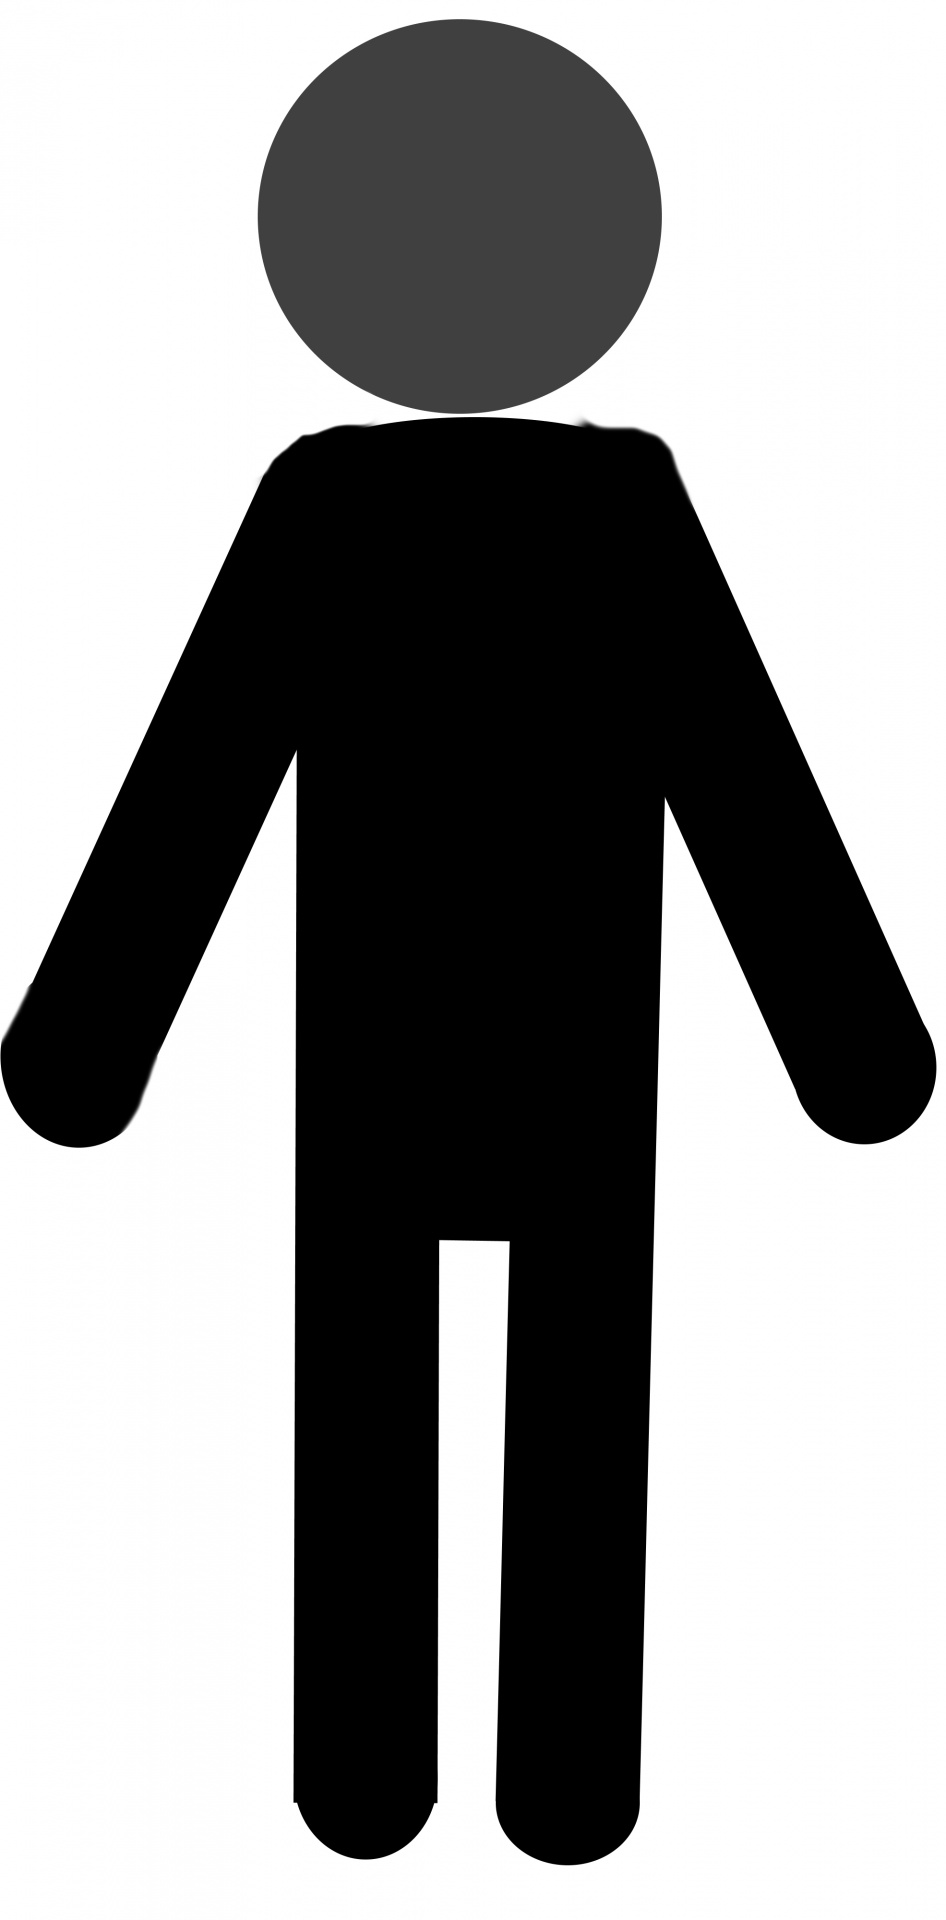
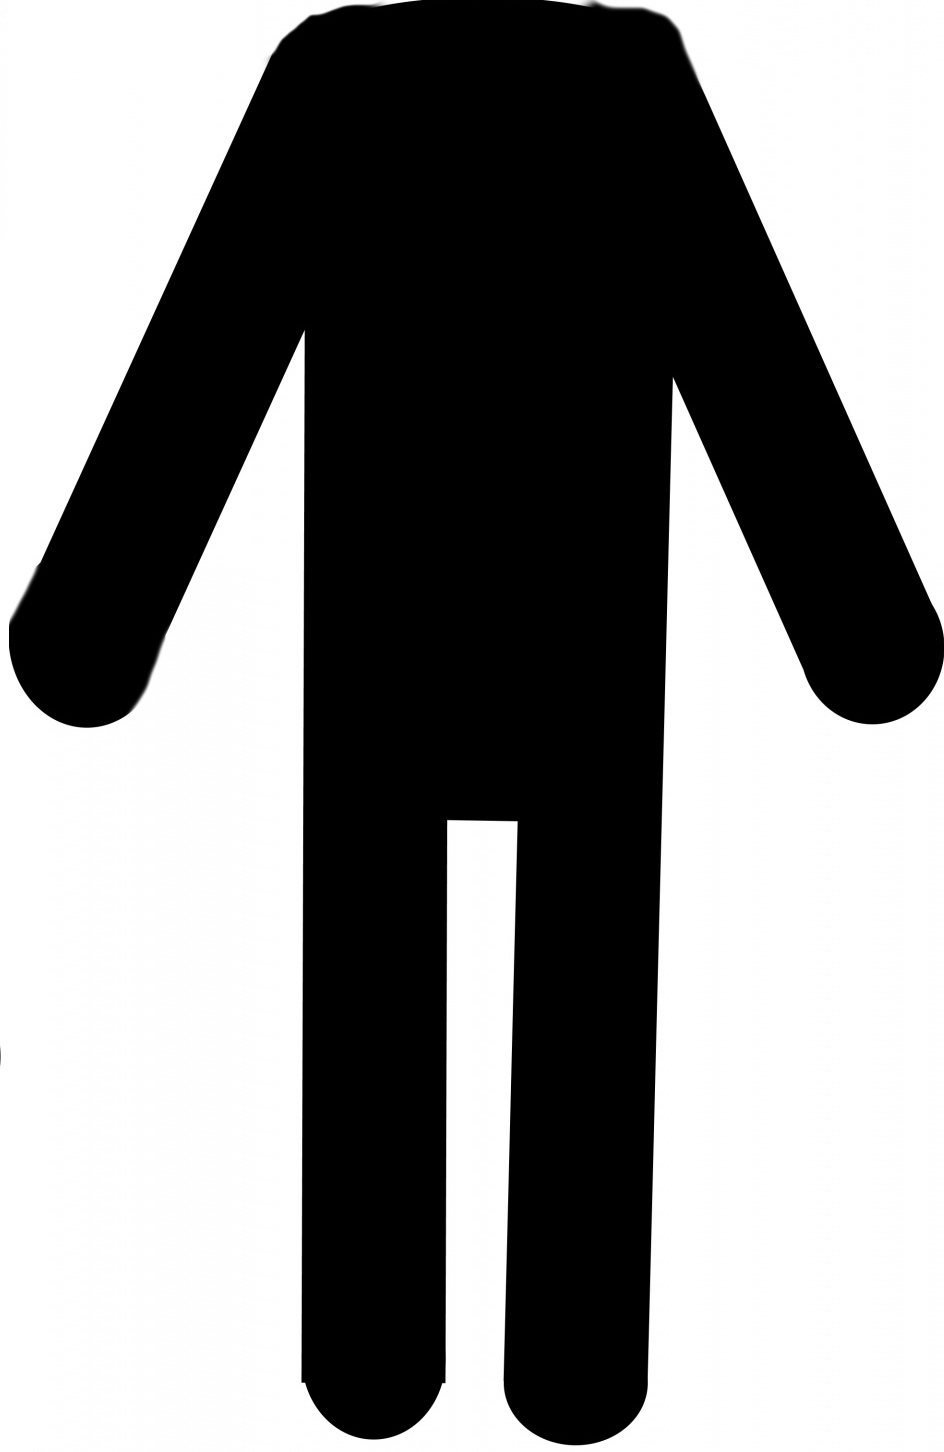
head red on hover with css

Changed region(s): [[0.0, 0.0, 1.0, 1.0]]

diff --git a/vuurwerkschade/vuurwerkschade.js b/vuurwerkschade/vuurwerkschade.js
@@ -201,13 +201,28 @@ function afterLoad() {
     //   border: '1px solid #ccc'
     // });
 
-    d3.select("#svgImagePoppetje1")
-    .append("svg:image")
-    .attr("xlink:href", "images/poppetje1.png")
-    .attr("width", 150)
-    .attr("height", 300)
-    .attr("x", 0)
-    .attr("y", 0);
+    // 
+    // var widthImagePoppetje1 = d3.select("#svgImagePoppetje1").attr("width");
+    // var heightImagePoppetje1 = d3.select("#svgImagePoppetje1").attr("height");
+    //
+    // d3.select("#svgImagePoppetje1")
+    // .append("svg:image")
+    // .attr("xlink:href", "images/poppetje1.png")
+    // .attr("width", widthImagePoppetje1)
+    // .attr("height", heightImagePoppetje1)
+    // .attr("x", 0)
+    // .attr("y", 10);
+    //
+    // d3.select("#svgImagePoppetje1")
+    // .append("svg:image")
+    // .attr("xlink:href", "images/head.png")
+    // .attr("width", widthImagePoppetje1/2)
+    // .attr("height", heightImagePoppetje1/2)
+    // .attr("x", 40)
+    // .attr("y", -35)
+    // .on("mouseover", function(d){
+    //   this.style("opacity", 0.1);
+    // });
 
 
     //--------------------------------------------------------------------------

diff --git a/vuurwerkschade/index.html b/vuurwerkschade/index.html
@@ -29,7 +29,11 @@ Orin Habich 10689508-->
           <svg id = "svgPiechartSEHstatusVuurwerk" width="150" height="150"></svg>
         </div>
         <div class="col-md-2" >
-          <svg id = "svgImagePoppetje1" width="150" height="300"></svg>
+          <div class="container">
+            <img src="images/headBlack.png" alt="headBlack" id = "headBlack" class="image">
+            <img src="images/headRed.png" alt="headRed" id = "headRed" class="image">
+            <img src="images/poppetje1.png" alt="Poppetje1" id = "body" class="image">
+          </div>
         </div>
       </div>
       <div class="row">

diff --git a/vuurwerkschade/css/SEH.css b/vuurwerkschade/css/SEH.css
@@ -40,3 +40,42 @@ h3 {
   padding: 14px;
   text-align: center;
 }
+
+.container {
+  position: relative;
+  width: 100%;
+}
+
+/* .image {
+  display: block;
+  width: 100%;
+  height: auto;
+} */
+
+#headBlack {
+    position: absolute;
+    width: 40%;
+    left: 30%;
+}
+
+#headRed {
+    position: relative;
+    width: 50%;
+    left: 25%;
+    opacity: 0;
+}
+
+#body {
+    position: relative;
+    /* top: -100%; */
+    width: 100%;
+}
+
+#headRed:hover {
+  opacity: 1;
+
+}
+
+#headBlack:hover {
+  opacity: 0;
+}
